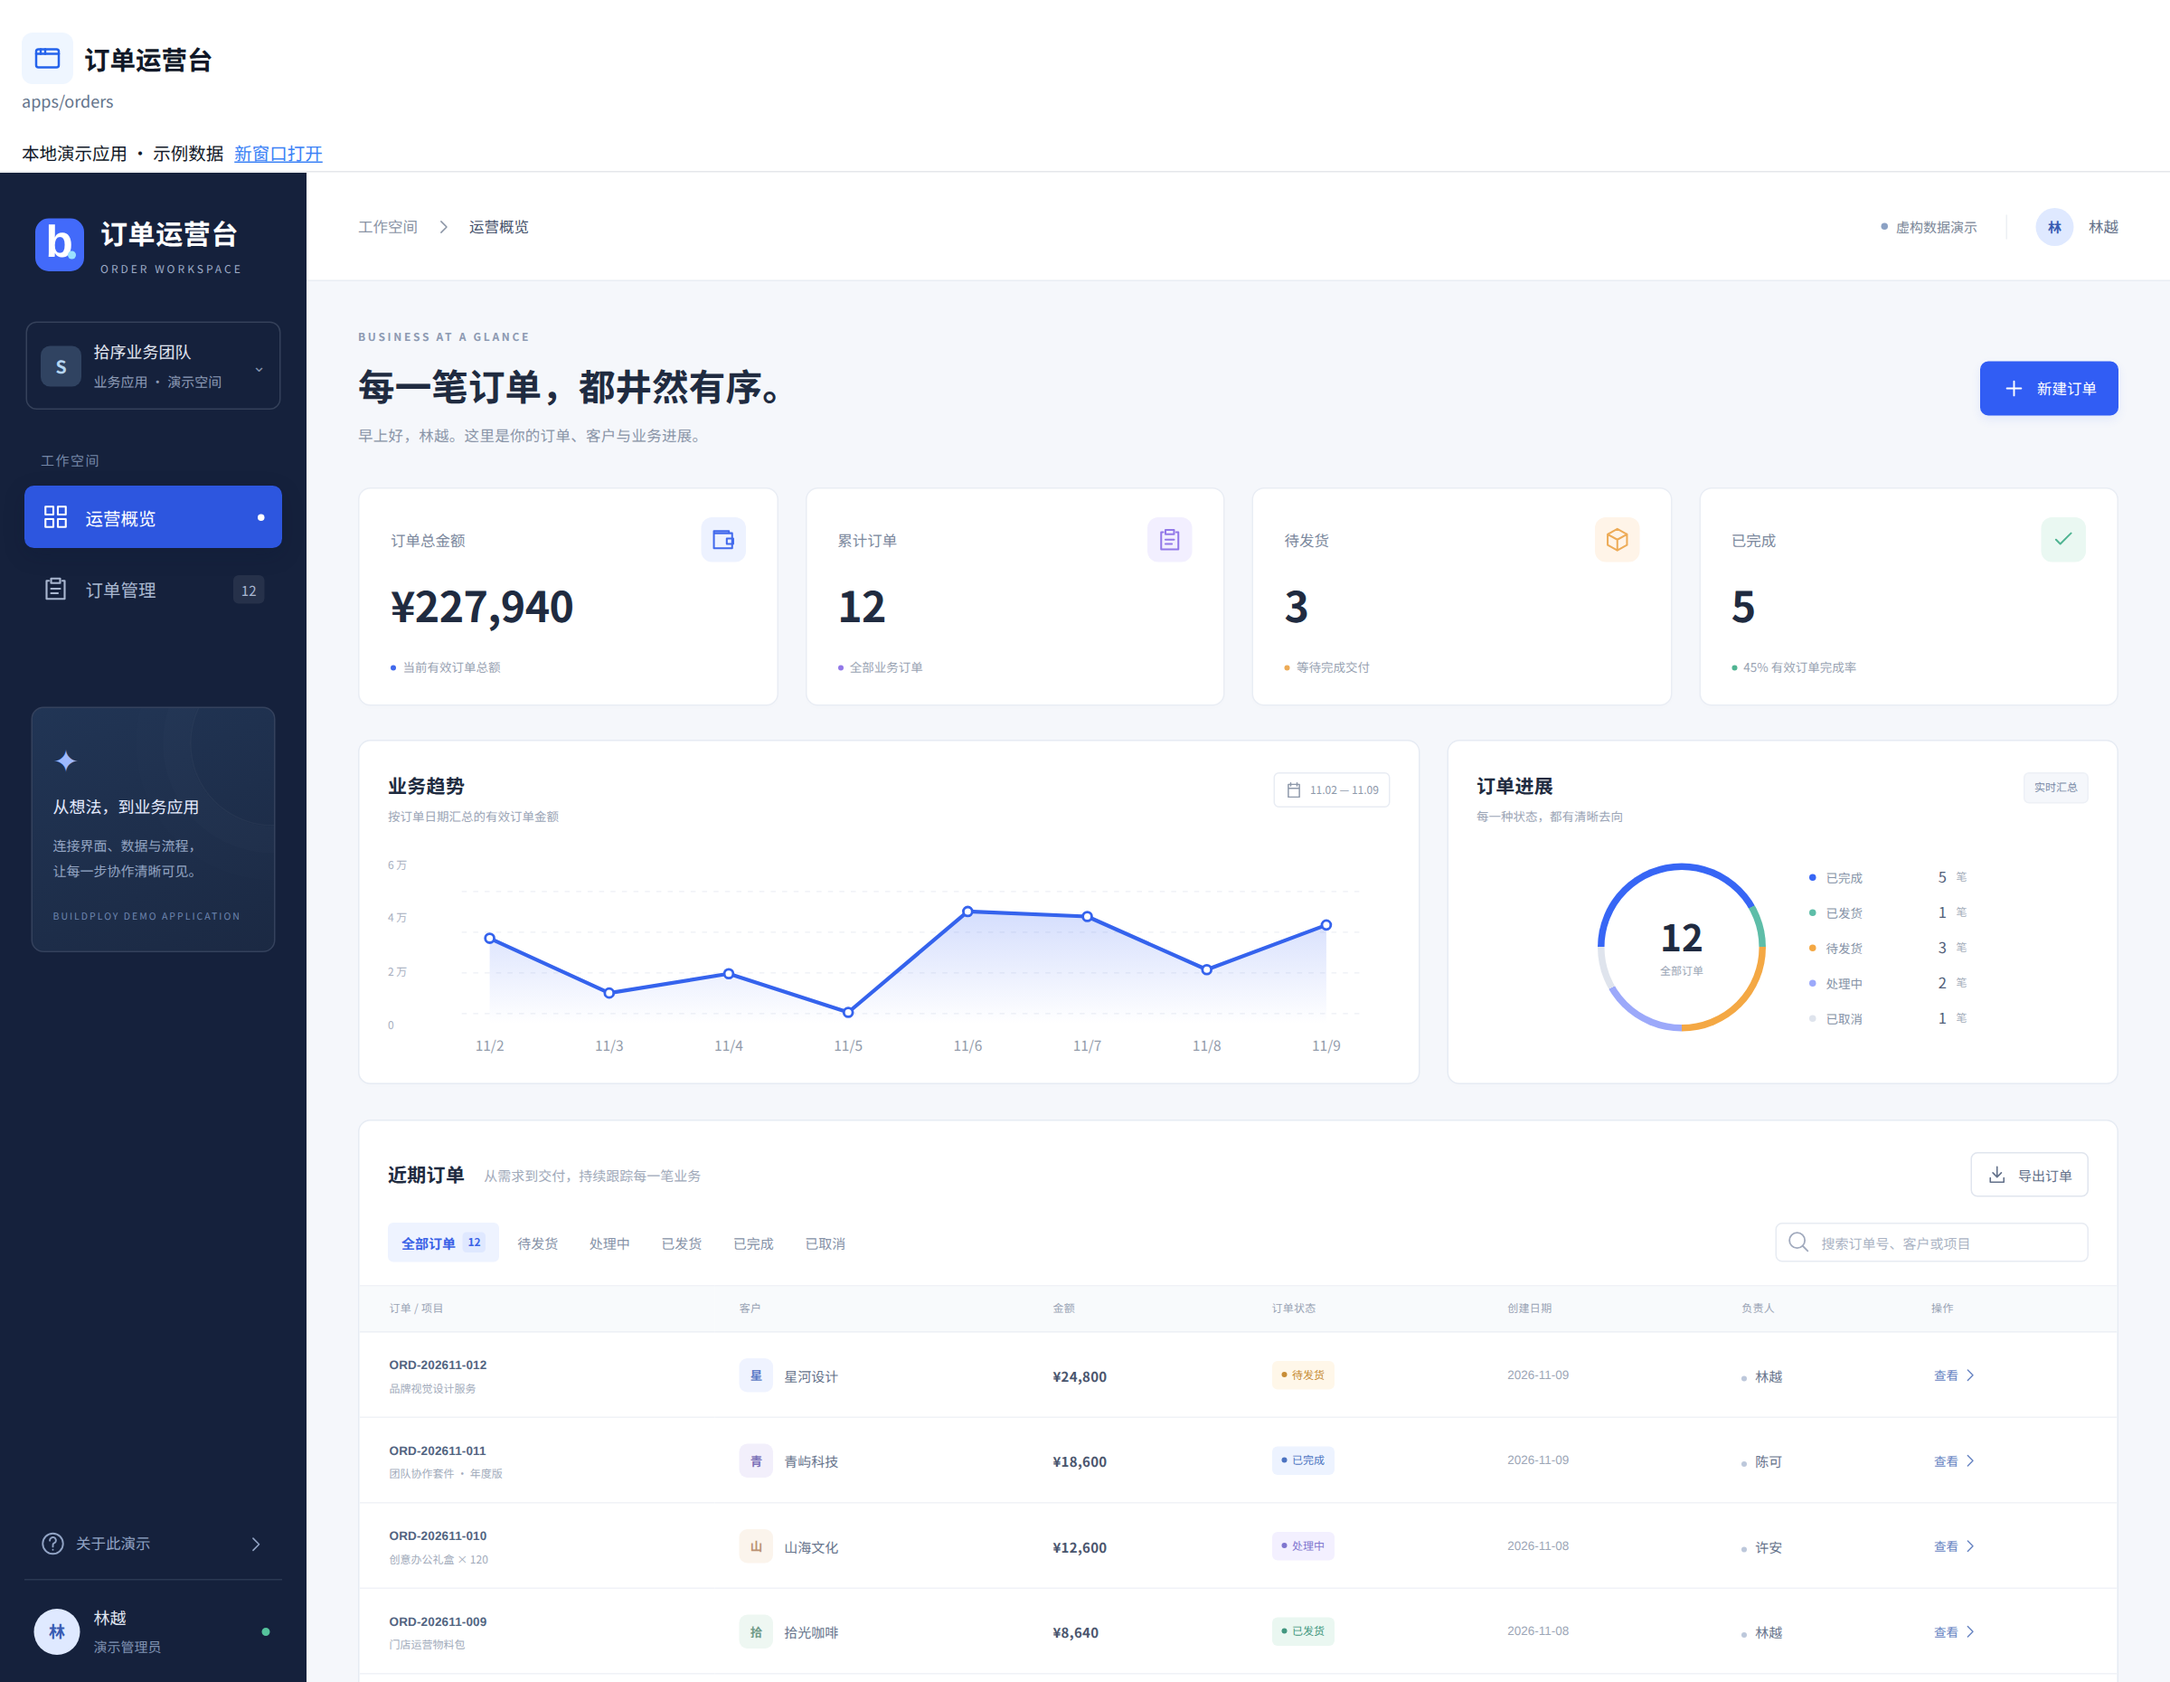
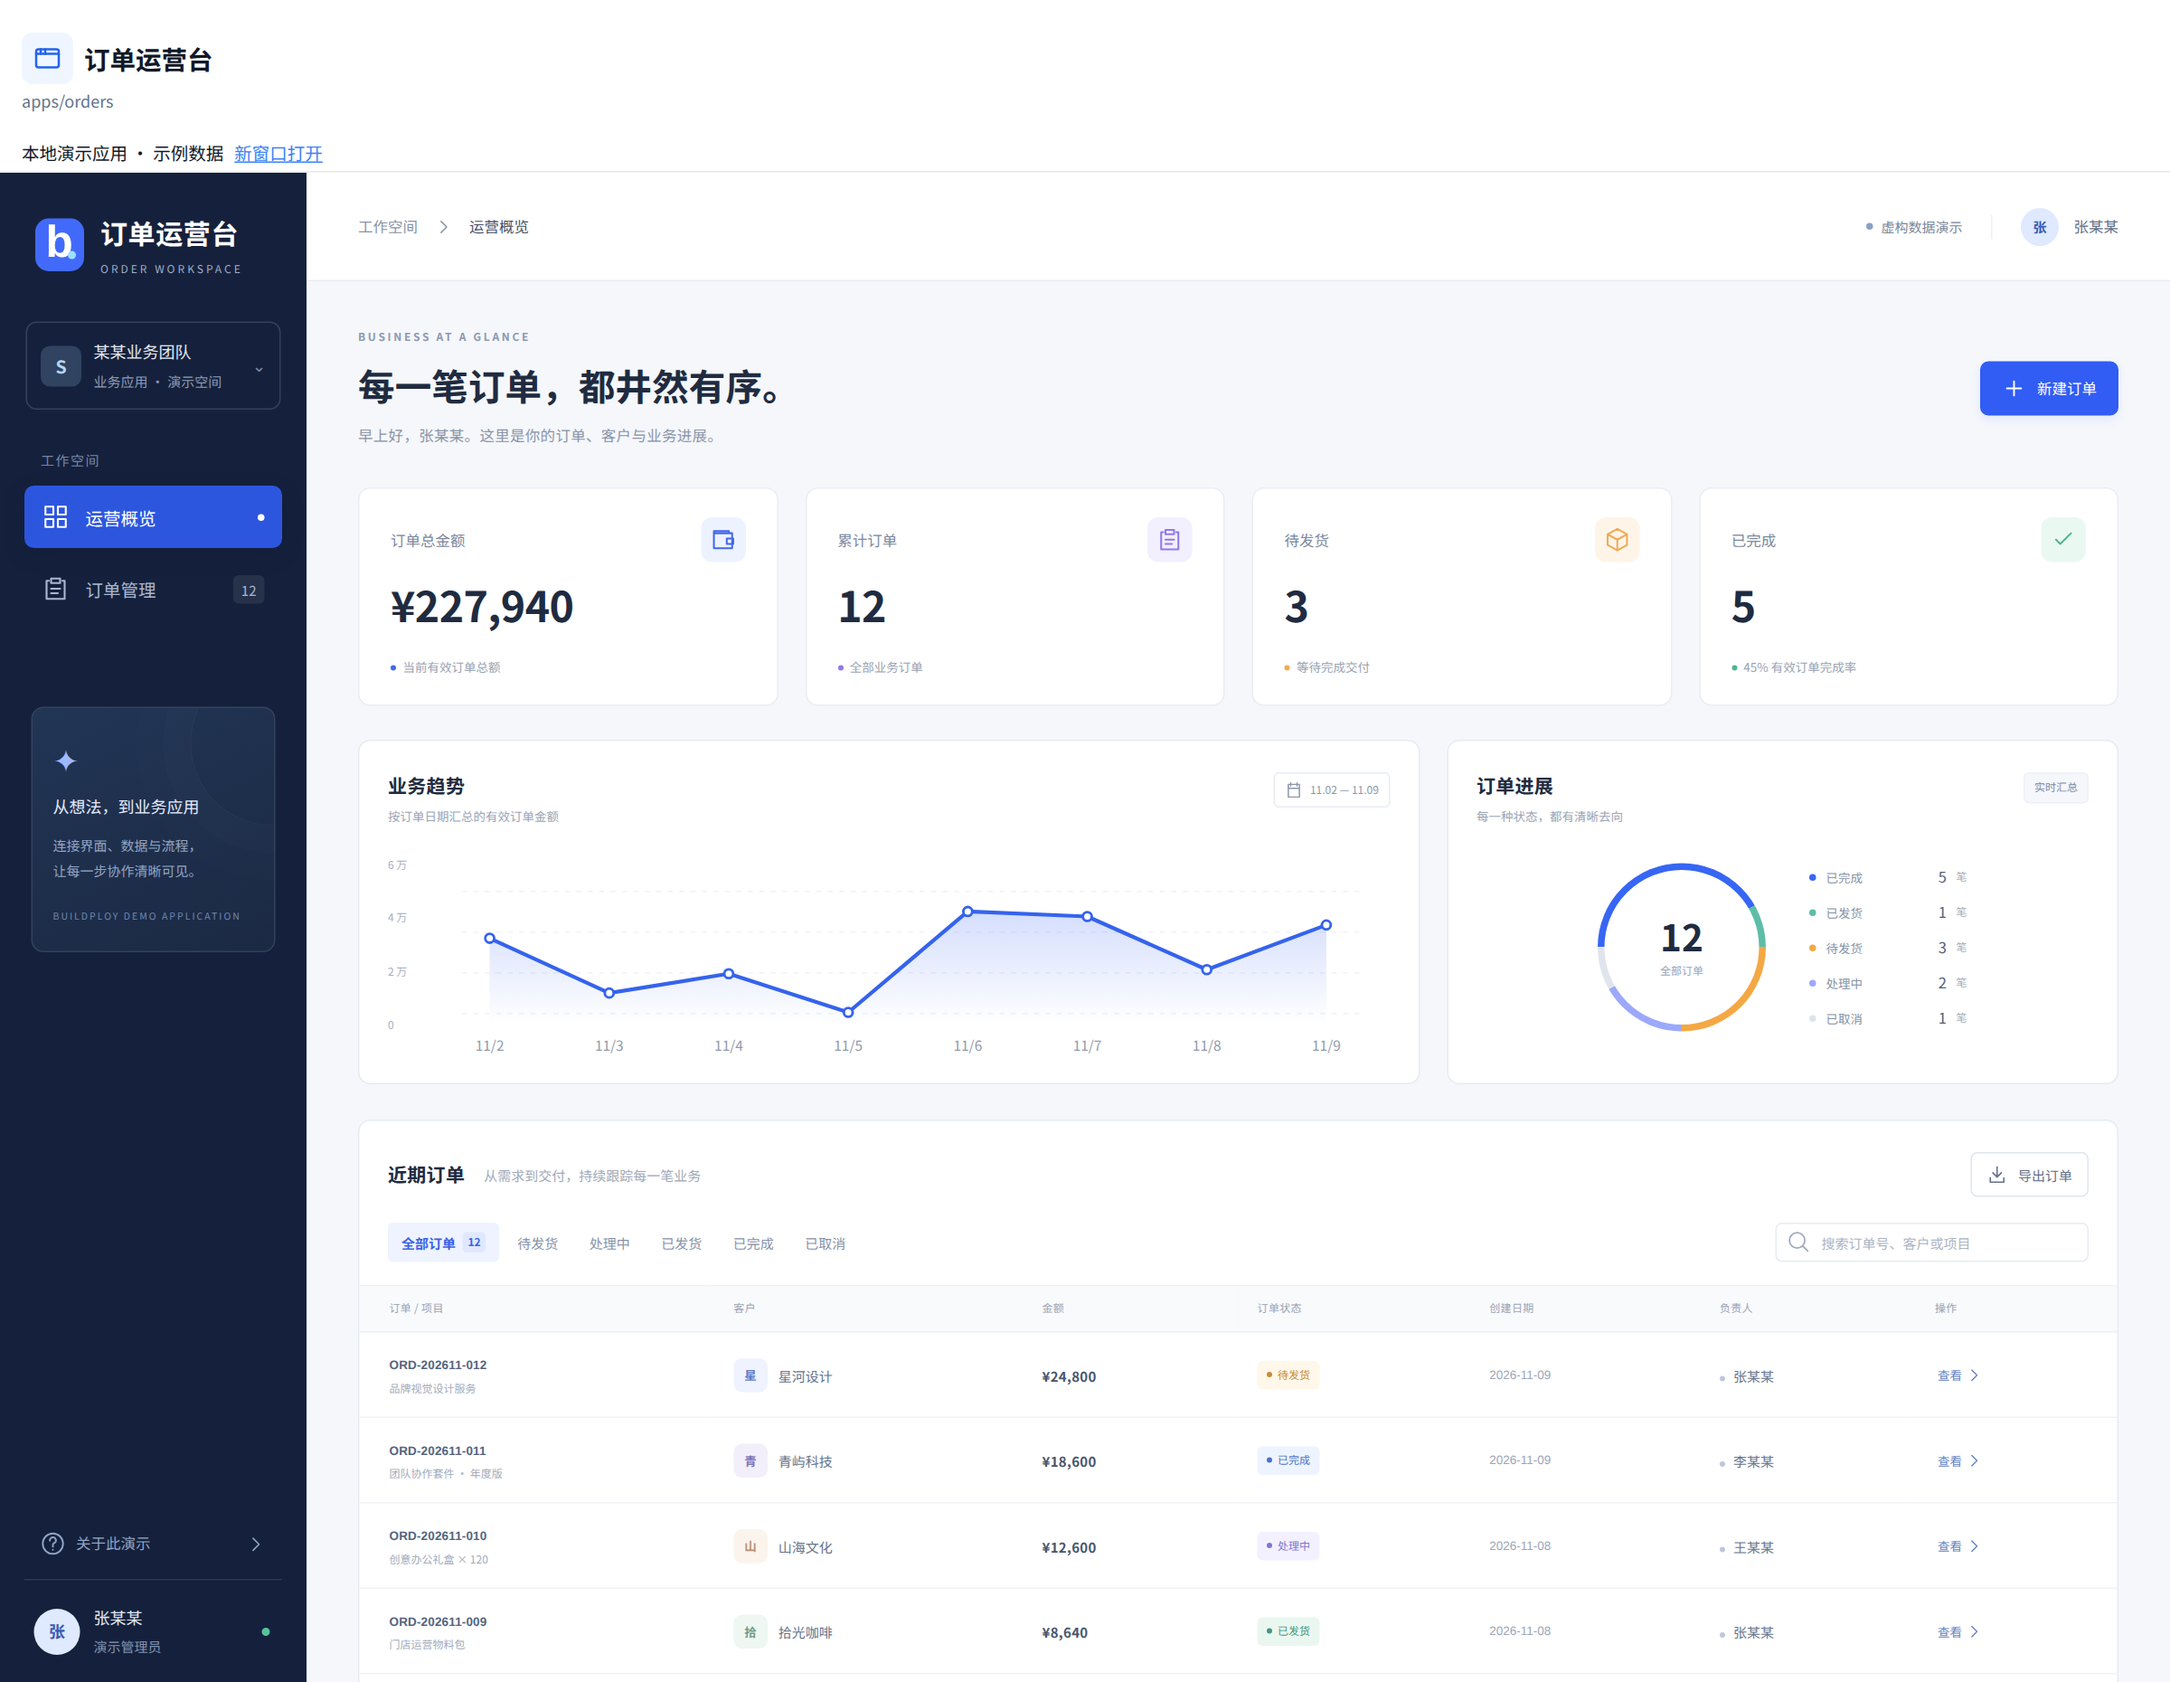
docs(showcase): 更新匿名化截图与真实企业案例
在原应用工程中更新展示名称与演示姓名，替换真实目标端截图。
补充企业助手的真实模型查询与原申请待交付状态，说明人工匿名化及验收范围。
删除已被真实企业案例替代的两张组件示例图，保留其余产品及部署文档。

验证：14 篇 Markdown、125 处相对引用与图片检查通过；
39 个文件与确认版 ZIP 逐字节一致，28 个离线文档视图通过。

diff --git a/docs/mobile-preview.md b/docs/mobile-preview.md
@@ -1,10 +1,10 @@
 # AI Builder 创建的小程序与 Android 应用
 
-从业务需求出发，让产品内 AI Builder 创建原生工程、实现页面和状态处理、执行构建，再到真实目标端操作。“拾序工作台”以虚构的企业待办和采购审批为例，展示这条路径的实际结果。
+从业务需求出发，让产品内 AI Builder 创建原生工程、实现页面和状态处理、执行构建，再到真实目标端操作。“某某工作台”以虚构的企业待办和采购审批为例，展示这条路径的实际结果。
 
 [文档目录](README.md) · [功能全景](features.md) · [核心功能 UI](showcase.md) · [企业应用与 AI 协作](enterprise.md)
 
-两个工程均由产品内 AI Builder 从空项目生成，过程中由人工补充指令。Android 还经过人工选择项目的官方执行镜像；应用业务源码均未由 Codex 代写，也没有导入此前的独立演示应用。本次未发布。
+两个工程均由产品内 AI Builder 从空项目生成，过程中由人工补充指令。Android 还经过人工选择项目的官方执行镜像；业务功能由 AI Builder 编写，没有导入此前的独立演示应用；本次按展示需要，人工修改应用名称与演示姓名后重新构建截图。本次未发布。
 
 | 目标端 | 实际运行方式 | 已验证的行为 |
 | --- | --- | --- |
@@ -13,9 +13,9 @@
 
 ## 微信小程序
 
-系统工作台将真实 AI Builder 会话、应用工程与小程序设备预览放在同一个页面，便于对照需求和运行效果继续调整。
+系统工作台将 AI Builder、应用工程与小程序设备预览放在同一个页面，便于对照需求和运行效果继续调整。本次改名后从原项目重新构建，截图展示同一工程的实际预览。
 
-![Buildploy 系统中的真实 AI Builder 会话与微信小程序预览](../assets/screenshots/builder-miniapp-system.png)
+![Buildploy 系统中的原应用工程与微信小程序实际预览](../assets/screenshots/builder-miniapp-system.png)
 
 *实际系统 UI，预览内容来自该项目的固定源码和平台运行操作。*
 
@@ -23,19 +23,19 @@
 
 ![小程序审批结果：意见已保留，申请进入待交付](../assets/screenshots/builder-miniapp-approval.png)
 
-AI Builder 在真实页面中填写意见并批准采购申请。申请进入“待交付”，返回首页后，待审批／待交付／已处理统计更新为 1／1／1。批准不代表已完成交付。
+原始验收由 AI Builder 在真实页面中填写意见并批准采购申请；本次改名后在新的游客预览会话中，由人工通过相同页面重新验证。申请进入“待交付”，返回首页后，待审批／待交付／已处理统计更新为 1／1／1。批准不代表已完成交付。
 
 此案例使用游客身份与本地虚构数据。关闭重启后的持久化、真实微信登录、授权、支付及上传开发版未纳入本次验证。
 
 ## Android 应用
 
-AI Builder 创建 Kotlin / Jetpack Compose 工程并完成实际 APK 构建。系统 UI 保留会话、源码和构建记录；本次平台内设备预览遇到辅助组件协议或能力不匹配，尚未通过。
+AI Builder 创建 Kotlin / Jetpack Compose 工程并完成实际 APK 构建。系统 UI 展示原项目、源码与构建记录；本次平台内设备预览遇到辅助组件协议或能力不匹配，尚未通过。
 
 ![Buildploy 系统中的 Android AI Builder 工程与执行记录](../assets/screenshots/builder-android-system.png)
 
 *实际系统 UI。平台内设备预览未通过，不能将下面的本地验收画面视为平台内预览成功。*
 
-人工下载 AI Builder 修正系统栏安全区后的新构建 APK，核对构建产物与安装后文件的摘要一致，再在本次专属 Android 模拟器中验证页面和本地业务状态。
+在保留 AI Builder 已修正的系统栏安全区逻辑后，人工修改展示名称并重新构建 APK，核对构建产物与安装后文件的摘要一致，再在本次专属 Android 模拟器中验证页面和本地业务状态。匿名化 APK 在另一台独立模拟器中重新安装验收，原模拟器及其数据保留。
 
 ![AI Builder 产出的 Android APK 在专属模拟器中实际启动](../assets/screenshots/builder-android-preview.png)
 

diff --git a/README.md b/README.md
@@ -6,9 +6,9 @@
 
 [进入工作台](https://code.buildploy.com/) · [访问官网](https://www.buildploy.com/) · [快速入门](docs/quick-start.md) · [反馈问题](https://github.com/zbw911/buildploy/issues/new/choose)
 
-[![Buildploy Studio：AI Builder 创建微信小程序并在平台内预览](assets/screenshots/builder-miniapp-system.png)](docs/showcase.md#ai-builder-真实创建的小程序)
+[![Buildploy Studio：AI Builder 编写的企业业务应用与设备申请界面](assets/screenshots/builder-enterprise-system.png)](docs/enterprise.md)
 
-*人工提出需求并补充指令，AI Builder 生成小程序工程、完成构建和平台游客预览，并实际验证批准申请后进入“待交付”；验收范围见[真实案例](docs/showcase.md#ai-builder-真实创建的小程序)。*
+*企业案例业务源码由产品内 AI Builder 编写；人工完成企业模板初始化、账号与私有运行配置，以及运行验收。[查看真实企业案例 →](docs/enterprise.md)*
 
 ## 从需求到应用，在一处连起来
 
@@ -31,14 +31,14 @@
 | --- | --- |
 | [整体架构](docs/architecture.md) | 工作台、AI、项目工程、业务资源与交付目标如何连接。 |
 | [功能全景](docs/features.md) | 从需求表达、协作开发到运行验证和交付的完整路径。 |
-| [核心功能 UI](docs/showcase.md) | 查看 AI Builder 真实创建的小程序，以及工作台、业务流程、数据与交付入口。 |
+| [核心功能 UI](docs/showcase.md) | 查看 AI Builder 真实创建的企业应用和小程序，以及工作台、业务流程、数据与交付入口。 |
 | [小程序与 Android 预览](docs/mobile-preview.md) | 真实目标端中的应用界面、页面交互与状态变化。 |
 | [桌面版支持](docs/desktop.md) | Windows 客户端、本地 Git 工程、工具检测与原生目标端验证。 |
 | [企业应用与 AI 协作](docs/enterprise.md) | 用图解和案例了解 AI 如何连接企业数据、业务工具、权限和人工流程。 |
 
 ## 小程序与 Android，看见真实运行效果
 
-让产品内 AI Builder 创建“拾序工作台”，生成微信原生小程序与 Android 原生工程，并在真实目标端检查业务待办、详情与状态处理。
+让产品内 AI Builder 创建“某某工作台”，生成微信原生小程序与 Android 原生工程，并在真实目标端检查业务待办、详情与状态处理。
 
 <table>
 <tr><th>微信小程序</th><th>Android 应用</th></tr>
@@ -49,11 +49,11 @@
 
 ## 让 AI 进入企业的日常工作
 
-AI Builder 帮助团队构建和扩展应用，应用内 Agent 帮助员工推进业务任务。销售分析、申请办理等场景可以复用已有的企业工作台底座，将自然语言目标接入已授权的数据和业务操作。
+AI Builder 帮助团队编写企业业务应用，应用内业务助手帮助员工查询和办理业务。在电脑更换案例中，员工用自然语言提出需求，模型查询设备信息、创建一条申请，并给出对应业务记录入口。
 
-[![企业业务助手：业务目标、授权工具与业务记录在同一工作台衔接](assets/screenshots/enterprise-assistant.png)](docs/enterprise.md)
+[![企业业务助手：匿名化后真实模型只读查询本人设备](assets/screenshots/builder-enterprise-assistant.png)](docs/enterprise.md)
 
-*企业应用组件与示例会话。[查看企业 AI 化架构与案例 →](docs/enterprise.md)*
+*已实测设备查询、单条申请创建与对应记录入口；主管页面审批已进入待交付。改名后只读查询并重新截图，保留原申请。业务源码由产品内 AI Builder 编写，人工完成企业模板初始化、账号与私有运行配置及验收。[查看企业 AI 化架构与真实案例 →](docs/enterprise.md)*
 
 ## 开始体验
 
